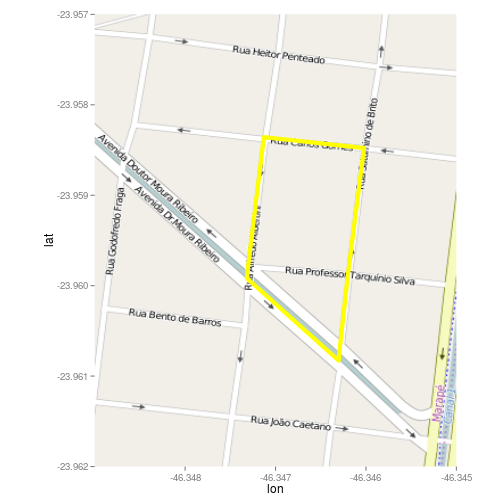
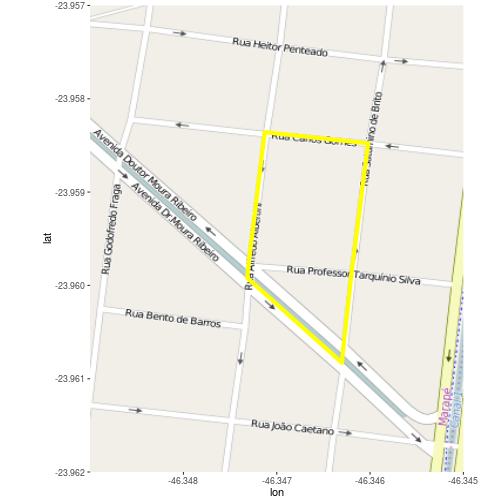
Spatial object to data.frame with broom package.

diff --git a/mapping.md b/mapping.md
@@ -22,7 +22,7 @@ Se aparece o erro "503 Service Unavailable", devemos tentar mais tarde para ver 
 
 ```r
 > # o pacote rgeos deve estar instalado.
-> library(rgdal); library(ggmap); library(ggsn)
+> library(rgdal); library(broom); library(ggmap); library(ggsn)
 > santos <- readOGR(dsn = '.', layer = 'santos')
 ```
 
@@ -42,11 +42,10 @@ It has 1 fields
 +     CRS('+init=epsg:4326'))
 > santos.pilot@data$id <-
 +     rownames(santos.pilot@data)
-> santos.pilot.points <- fortify(santos.pilot,
-+                                region = "id")
+> santos.pilot.points <- tidy(santos.pilot)
 > santos.pilot.df <- merge(santos.pilot.points,
 +                          santos.pilot@data,
-+                          by = "id")
++                          by = 'id')
 > 
 > osm.all.psu <- get_openstreetmap(
 +     bbox = c(-46.386, -23.991, -46.298, -23.929),
@@ -66,7 +65,7 @@ It has 1 fields
 +     north(santos.pilot.df, symbol = 15)
 ```
 
-![plot of chunk map_all_psu](figures/map_all_psu-1.png) 
+![plot of chunk map_all_psu](figures/map_all_psu-1.png)
 
 Sem importar o método usado para produzir os mapas, devemos desenhar um percurso no mapa de cada UPA para poder ir por todas as ruas. Podemos definir um domicílio em um ponto arbitrário (localização inferior esquerda) como o primeiro domicílio e a partir do mesmo, podemos seguir o percurso contando os domicílios (incluindo os dois lados dos fragmentos de rua totalmente contidos na UPA).  
 
@@ -89,4 +88,4 @@ O seguinte mapa mostra a quarta UPA selecionada.
 Regions defined for each Polygons
 ```
 
-![plot of chunk map_4th_psu](figures/map_4th_psu-1.png) 
+![plot of chunk map_4th_psu](figures/map_4th_psu-1.png)
